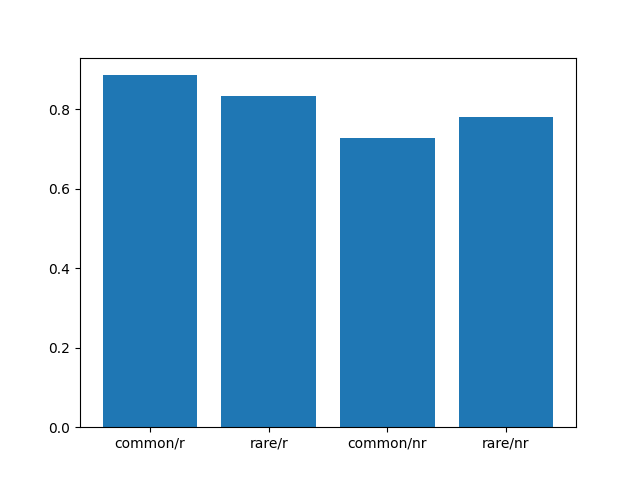
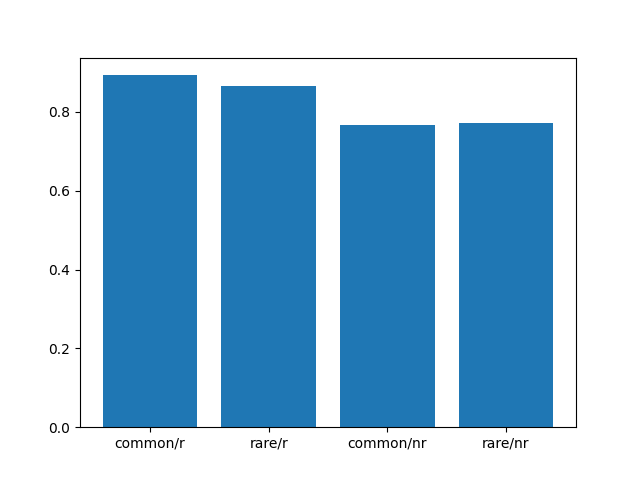
ppc group metadata results on test subjects

diff --git a/analysis/two_step_task/ppc_group_metadata.py b/analysis/two_step_task/ppc_group_metadata.py
@@ -1,6 +1,6 @@
 
 import os, sys, re, glob, numpy as np, pandas as pd
-sys.path.insert(0, os.path.abspath(os.path.join(os.path.dirname(__file__), "..")))
+sys.path.insert(0, os.path.abspath(os.path.join(os.path.dirname(__file__), "..", "..")))
 from pathlib import Path
 from config.schema import load_config
 from gecco.prepare_data.io import load_data, split_by_participant, parse_split
@@ -11,11 +11,12 @@ from gecco.utils import *
 import matplotlib.pyplot as plt
 
 
-project_root = Path(__file__).resolve().parents[1]
+# project_root = Path(__file__).resolve().parents[1]
+project_root = Path('/home/aj9225/gecco-1')
 cfg = load_config(project_root / "config" / "two_step_psychiatry_group_metadata_stai.yaml")
 data_cfg = cfg.data
 df = load_data(data_cfg.path)
-participants = parse_split(cfg.data.splits.eval, df.participant.unique().tolist())
+participants = parse_split(cfg.data.splits.test, df.participant.unique().tolist()) #df.participant.unique()
 num_runs = cfg.loop.max_independent_runs
 metric_name = cfg.evaluation.metric.upper()
 metric_map = {"AIC": _aic, "BIC": _bic}
@@ -78,14 +79,14 @@ for r in range(num_runs):
         print(p)
         df_participant = df[df.participant==p].reset_index()
 
-        best_parameters = pd.read_csv(f'{param_dir}/best_params_run{r}.csv').iloc[idx]
+        best_parameters = pd.read_csv(f'{param_dir}/best_params_on_test_run{r}.csv').iloc[idx]
         reward_p_s0_0, reward_p_s0_1, reward_p_s1_0, reward_p_s1_1 = (np.array(df_participant.reward_p_s0_0),
                                                                     np.array(df_participant.reward_p_s0_1),
                                                                     np.array(df_participant.reward_p_s1_0),
                                                                     np.array(df_participant.reward_p_s1_1))
         stai = df_participant['stai'][0]
         n_trials = df_participant.shape[0]
-        participant_simulation_model = open(f'{best_simulated_models}simulation_model.txt', 'r')
+        participant_simulation_model = open(f'{best_simulated_models}simulation_model_run{r}.txt', 'r')
         participant_simulation_model = participant_simulation_model.read()
         participant_simulation_model = extract_full_function(participant_simulation_model,'simulate_model')
 
@@ -117,7 +118,7 @@ for r in range(num_runs):
 
 
     ppcs = pd.DataFrame(p_stay)
-    ppcs.to_csv('ppcs_group_metadata.csv')
+    ppcs.to_csv(f'{project_root}/analysis/two_step_task/ppcs_group_metadata.csv')
 
 
 
@@ -129,6 +130,6 @@ axis.bar(np.arange(4),[np.mean(np.mean(p_stay['prob_stay_common_rewarded'])),
 
 axis.set_xticks(np.arange(4))
 axis.set_xticklabels(['common/r','rare/r','common/nr','rare/nr'])
-figure.savefig('ppcs_group_metadata.png')
+figure.savefig(f'{project_root}/analysis/two_step_task/ppcs_group_metadata.png')
 
 print('stop')
